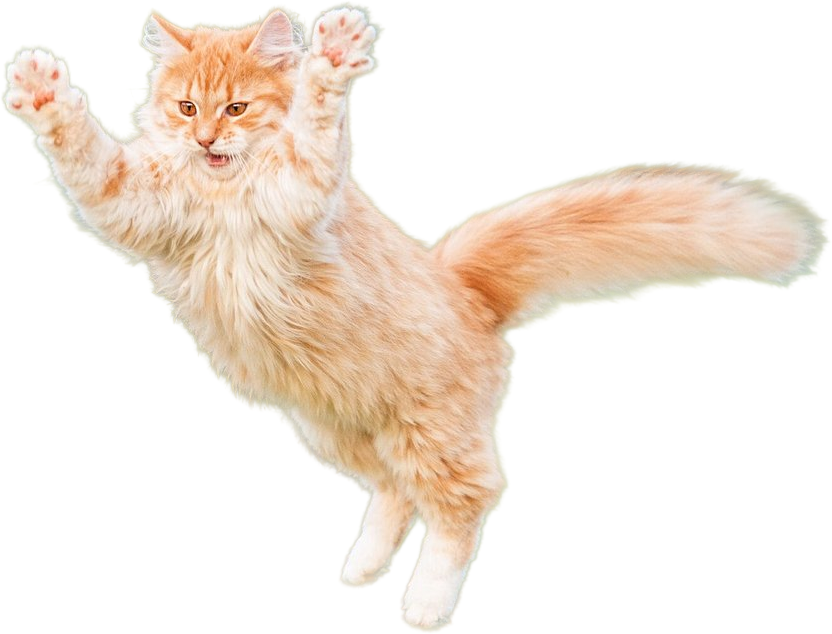
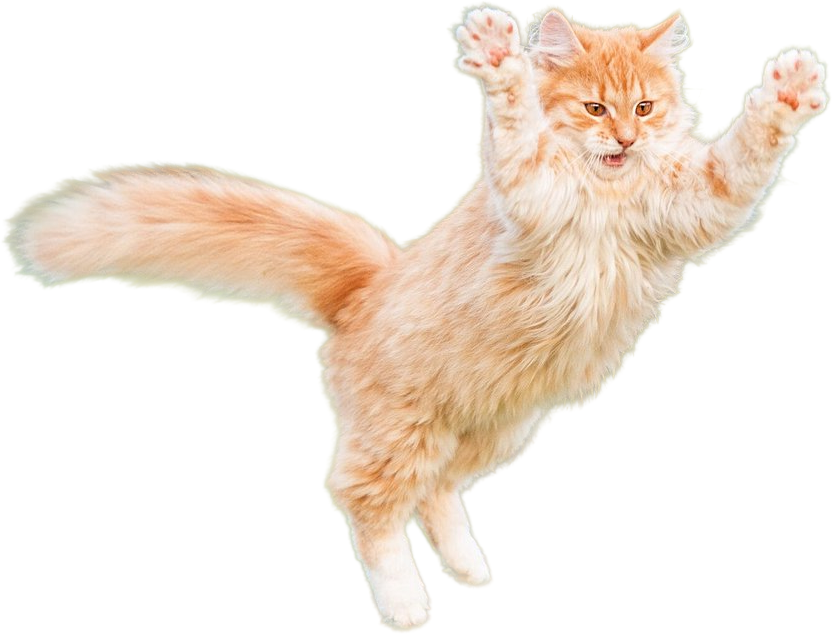
kat-spring spiegel

diff --git a/assets/style/normal.css b/assets/style/normal.css
@@ -267,12 +267,20 @@ dialog {
 
   /* left: 0%; */
 
-  left: calc(50% - 25vw);
-  top: calc(50% + 40vh);
+  --size: clamp(7rem, 5.5rem + 7.5vw, 10rem);
 
-  translate: -50% -50%;
+  left: calc(50% - 25vw - var(--size) * 0.5);
+  top: calc(50% + 40vh - var(--size) * 0.5);
 
-  width: clamp(7rem, 5.5rem + 7.5vw, 10rem);
+  /* translate: -50% -50%; */
+
+  width: var(--size);
+
+  animation-name: --13-keyframes-animation;
+  animation-duration: 6s;
+  animation-iteration-count: infinite;
+
+  transform-origin: center bottom;
 
   img {
     width: 100%;
@@ -294,6 +302,7 @@ dialog {
   position: sticky;
   top: 26%;
 
+  width: fit-content;
   text-align: center;
   text-decoration: none;
   color: var(--terugknop-text);
@@ -318,8 +327,12 @@ dialog {
   }
   @media (width > 550px) {
     position: sticky;
-    top: 6em;
+    top: 7.8em;
   }
+
+  @media (width > 700px) {
+  }
+
   @media (width > 1000px) {
     position: sticky;
     top: 3.1em;
@@ -523,63 +536,62 @@ main {
 /* Code van Sanne */
 
 @keyframes --13-keyframes-animation {
-  0%,
-  20% {
+  0% {
     /* JOUW CODE HIER */
     /* scale */
     scale: 1;
   }
-  27% {
+  4% {
     /* JOUW CODE HIER */
     /* scale */
     scale: 1.2 0.8;
   }
-  34% {
+  7% {
     /* JOUW CODE HIER */
     /* scale */
     scale: 0.9 1.1;
   }
-  38% {
+  9% {
     /* JOUW CODE HIER */
     /* scale, translate en animation-timing-function */
     translate: 0 0;
     scale: 1.35 0.65;
     animation-timing-function: cubic-bezier(0.165, 0.84, 0.44, 1);
   }
-  50% {
+  15% {
     /* JOUW CODE HIER */
     /* scale, translate en animation-timing-function */
     translate: 0 -3em;
     scale: 0.67 1.5;
     animation-timing-function: cubic-bezier(0.895, 0.03, 0.685, 0.22);
   }
-  62% {
+  21% {
     /* JOUW CODE HIER */
     /* scale en translate  */
     translate: 0 0;
     scale: 2 0.25;
   }
-  68% {
+  24% {
     /* JOUW CODE HIER */
     /* scale */
     scale: 0.8 1.2;
   }
-  72% {
+  26% {
     /* JOUW CODE HIER */
     /* scale */
     scale: 1.1 0.9;
   }
-  75% {
+  27% {
     /* JOUW CODE HIER */
     /* scale */
     scale: 0.95 1.05;
   }
-  78% {
+  29% {
     /* JOUW CODE HIER */
     /* scale */
     scale: 1.02 0.98;
   }
-  80%,
+  30%,
   100% {
     /* JOUW CODE HIER */
     /* scale */
